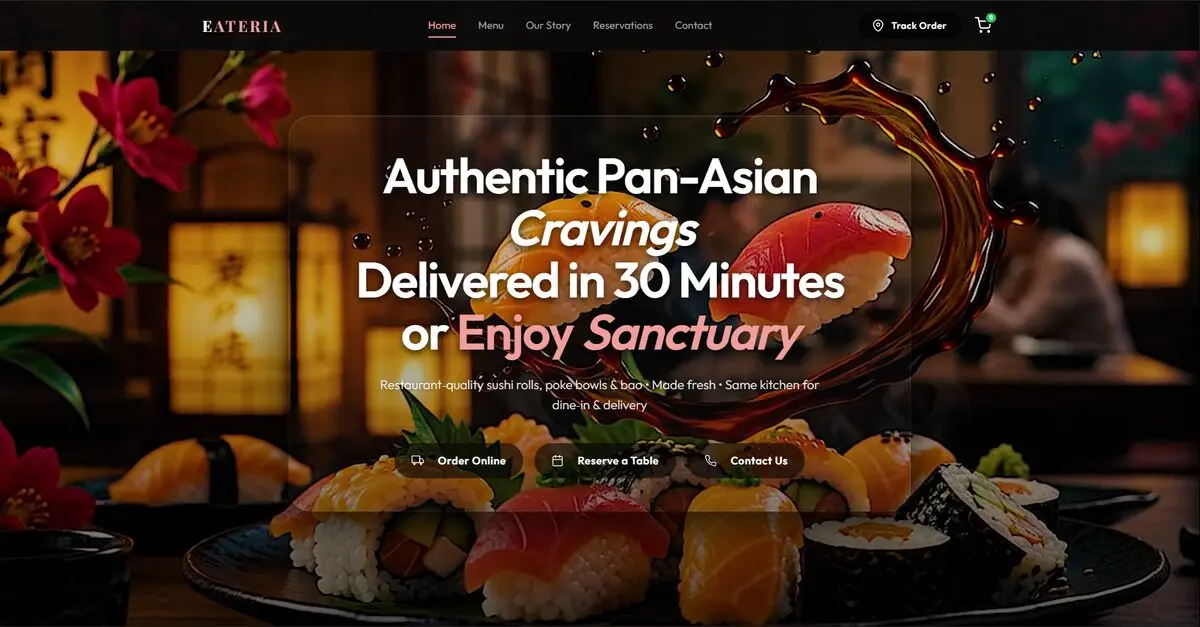
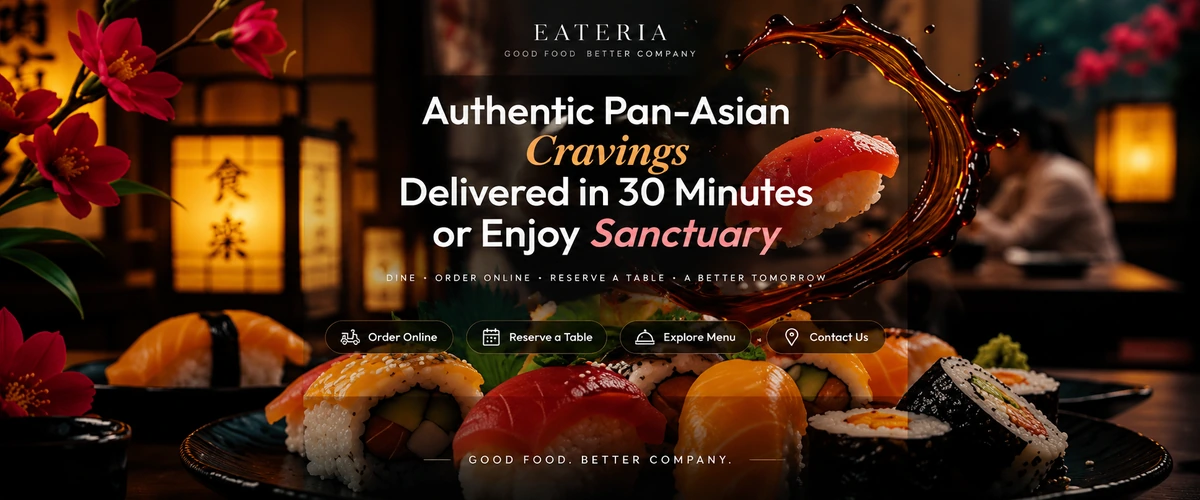
dfs

diff --git a/index.html b/index.html
@@ -726,9 +726,9 @@ h1 em{font-style:italic;font-weight:400;color:var(--pu2)}
 .deploy-body{position:relative;z-index:2;padding:60px 26px 0}
 .deploy-body h3{font:500 1.25rem var(--serif);color:var(--ink)}
 .deploy-body>p{font-size:.95rem;color:var(--mut);margin-top:6px}
-.deploy-prev{position:relative;z-index:0;margin-top:20px;height:210px;overflow:hidden;
+.deploy-prev{position:relative;z-index:0;margin:28px 0 0;aspect-ratio:2.4;height:auto;overflow:hidden;
   background:radial-gradient(120% 100% at 50% 100%,rgba(242,240,235,.18),transparent 60%),linear-gradient(180deg,#0a0a12,#050508)}
-.deploy-prev img{width:100%;height:100%;object-fit:cover;object-position:50% 15%;display:block}
+.deploy-prev img{width:100%;height:100%;object-fit:cover;object-position:50% 50%;display:block}
 .deploy-prev a{position:absolute;inset:0;z-index:3;display:block}
 .deploy-ph{position:absolute;inset:0;display:flex;flex-direction:column;align-items:center;justify-content:center;
   gap:8px;padding:0 24px;text-align:center}
@@ -742,11 +742,13 @@ h1 em{font-style:italic;font-weight:400;color:var(--pu2)}
 .deploy-req:hover{text-decoration:underline;text-underline-offset:4px}
 .deploy-before{font:600 9px var(--mono);letter-spacing:.18em;color:var(--mut2);text-transform:uppercase}
 .deploy-bl{font-size:.82rem;color:var(--mut);line-height:1.5}
-.deploy-stat{position:relative;z-index:2;margin-top:auto;border-top:1px solid var(--line);
+.deploy-stat{position:relative;z-index:2;margin-top:auto;
   padding:22px 26px 26px}
 .deploy-stat b{display:block;font:500 1.9rem var(--serif);color:#F2F0EB}
-.deploy-stat a{display:inline-block;font:500 1.9rem var(--serif);color:#F2F0EB;text-underline-offset:4px}
-.deploy-stat a:hover{text-decoration:underline}
+.deploy-stat a{display:inline-flex;align-items:center;gap:8px;font:500 1.9rem var(--serif);color:#F2F0EB;text-underline-offset:4px;cursor:pointer}
+.deploy-stat a .arr{font-size:1.15rem;transition:transform .3s cubic-bezier(0.16,1,0.3,1);display:inline-block}
+.deploy-card:hover .deploy-stat a .arr,.deploy-stat a:hover .arr{transform:translateX(6px)}
+.deploy-stat a:hover{opacity:.8}
 .deploy-stat span{display:block;font-size:.92rem;color:var(--mut);margin-top:4px}
 .deploy-cta{margin-top:26px}
 
@@ -1687,11 +1689,11 @@ footer{border-top:1px solid var(--line);padding:56px 0 44px}
             <p>Restaurant Website &amp; Digital Ordering</p>
           </div>
           <div class="deploy-prev">
-            <img src="public/projects/eateria.webp" alt="Eateria preview" loading="lazy">
+            <img src="public/projects/eateria.webp" alt="Eateria preview" loading="lazy" width="1200" height="500">
             <a href="https://thepyraxis.github.io/eateria" target="_blank" rel="noopener noreferrer" aria-label="View live website: Eateria"></a>
           </div>
           <div class="deploy-stat">
-            <a href="https://thepyraxis.github.io/eateria" target="_blank" rel="noopener noreferrer" aria-label="View live website: Eateria">Live Website</a>
+            <a href="https://thepyraxis.github.io/eateria" target="_blank" rel="noopener noreferrer" aria-label="View live website: Eateria">Live Website <span class="arr" aria-hidden="true">→</span></a>
             <span>Premium restaurant experience with online ordering, reservations, responsive design, and cinematic animations.</span>
           </div>
         </article>
@@ -1705,15 +1707,11 @@ footer{border-top:1px solid var(--line);padding:56px 0 44px}
             <p>AI Automation &amp; Lead Engagement</p>
           </div>
           <div class="deploy-prev">
-            <div class="deploy-ph">
-              <span class="em" aria-hidden="true"><svg viewBox="0 0 48 48" fill="none" stroke="currentColor" stroke-width="1.4" stroke-linecap="round" stroke-linejoin="round" aria-hidden="true"><path d="M20 8c-4 0-6 3-6 6-3 1-4 4-3 7-2 2-2 5 0 7-1 3 1 6 4 6h1v4h16v-4h1c3 0 5-3 4-6 2-2 2-5 0-7 1-3 0-6-3-7 0-3-2-6-6-6h-8z"/><path d="M24 8v26M17 16c2 1 3 3 3 5M31 16c-2 1-3 3-3 5M15 27c2 0 4-1 5-3M33 27c-2 0-4-1-5-3"/></svg></span>
-              <span class="st">Available on Request</span>
-              <a class="deploy-req" href="https://wa.me/919837104413?text=Hi!%20I%27d%20like%20to%20see%20the%20case%20study%20for%20ServicePro%20AI%20Agent." target="_blank" rel="noopener noreferrer">Request full case study</a>
-            </div>
+            <img src="public/projects/servicepro.webp" alt="ServicePro AI Agent preview" loading="lazy" width="1200" height="500">
           </div>
           <div class="deploy-stat">
-            <b>On request</b>
-            <span>Full case study</span>
+            <a href="https://wa.me/919837104413?text=Hi!%20I%27d%20like%20to%20see%20the%20case%20study%20for%20ServicePro%20AI%20Agent." target="_blank" rel="noopener noreferrer">Request full case study <span class="arr" aria-hidden="true">→</span></a>
+            <span>24/7 AI receptionist that answers enquiries, shares the menu, checks table availability, and books guests in automatically.</span>
           </div>
         </article>
         </div>
@@ -1726,15 +1724,11 @@ footer{border-top:1px solid var(--line);padding:56px 0 44px}
             <p>Booking System &amp; Automation</p>
           </div>
           <div class="deploy-prev">
-            <div class="deploy-ph">
-              <span class="em" aria-hidden="true"><svg viewBox="0 0 48 48" fill="none" stroke="currentColor" stroke-width="1.4" stroke-linecap="round" stroke-linejoin="round" aria-hidden="true"><path d="M24 24 10 10M24 24 38 10M24 24 10 38M24 24 38 38"/><circle cx="24" cy="24" r="4"/></svg></span>
-              <span class="st">Available on Request</span>
-              <a class="deploy-req" href="https://wa.me/919837104413?text=Hi!%20I%27d%20like%20to%20see%20the%20case%20study%20for%20StayVista%20Retreats." target="_blank" rel="noopener noreferrer">Request full case study</a>
-            </div>
+            <img src="public/projects/stayvista.webp" alt="StayVista Retreats preview" loading="lazy" width="1200" height="500">
           </div>
           <div class="deploy-stat">
-            <b>On request</b>
-            <span>Full case study</span>
+            <a href="https://wa.me/919837104413?text=Hi!%20I%27d%20like%20to%20see%20the%20case%20study%20for%20StayVista%20Retreats." target="_blank" rel="noopener noreferrer">Request full case study <span class="arr" aria-hidden="true">→</span></a>
+            <span>Automated villa booking system with instant enquiry replies, real-time availability sync, and guest messaging from first hello to check-out.</span>
           </div>
         </article>
         </div>
@@ -4985,6 +4979,19 @@ requestAnimationFrame(tick);
     });
     card.addEventListener('pointerleave',function(){
       if(raf!==null){ cancelAnimationFrame(raf); raf=null; }
+    });
+    card.style.cursor='pointer';
+    card.addEventListener('click',function(e){
+      if(e.target.closest('a')) return; // real link already handles it
+      var link=card.querySelector('.deploy-stat a');
+      if(link) window.open(link.href,'_blank','noopener,noreferrer');
+    });
+    card.addEventListener('keydown',function(e){
+      if(e.target!==card) return;
+      if(e.key==='Enter'||e.key===' '){
+        var link=card.querySelector('.deploy-stat a');
+        if(link){ e.preventDefault(); window.open(link.href,'_blank','noopener,noreferrer'); }
+      }
     });
   });
 })();
